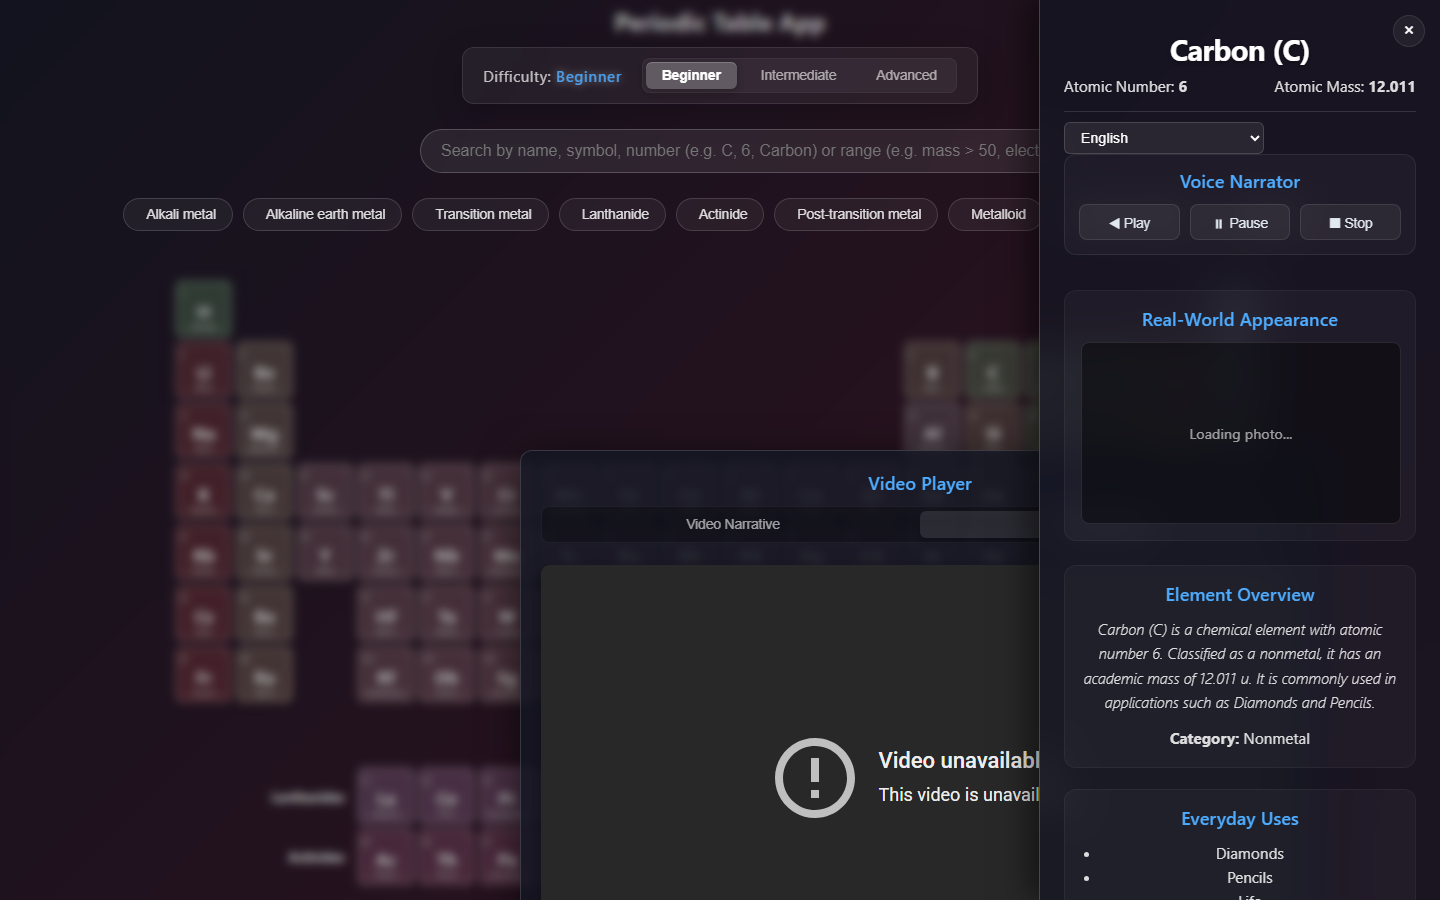
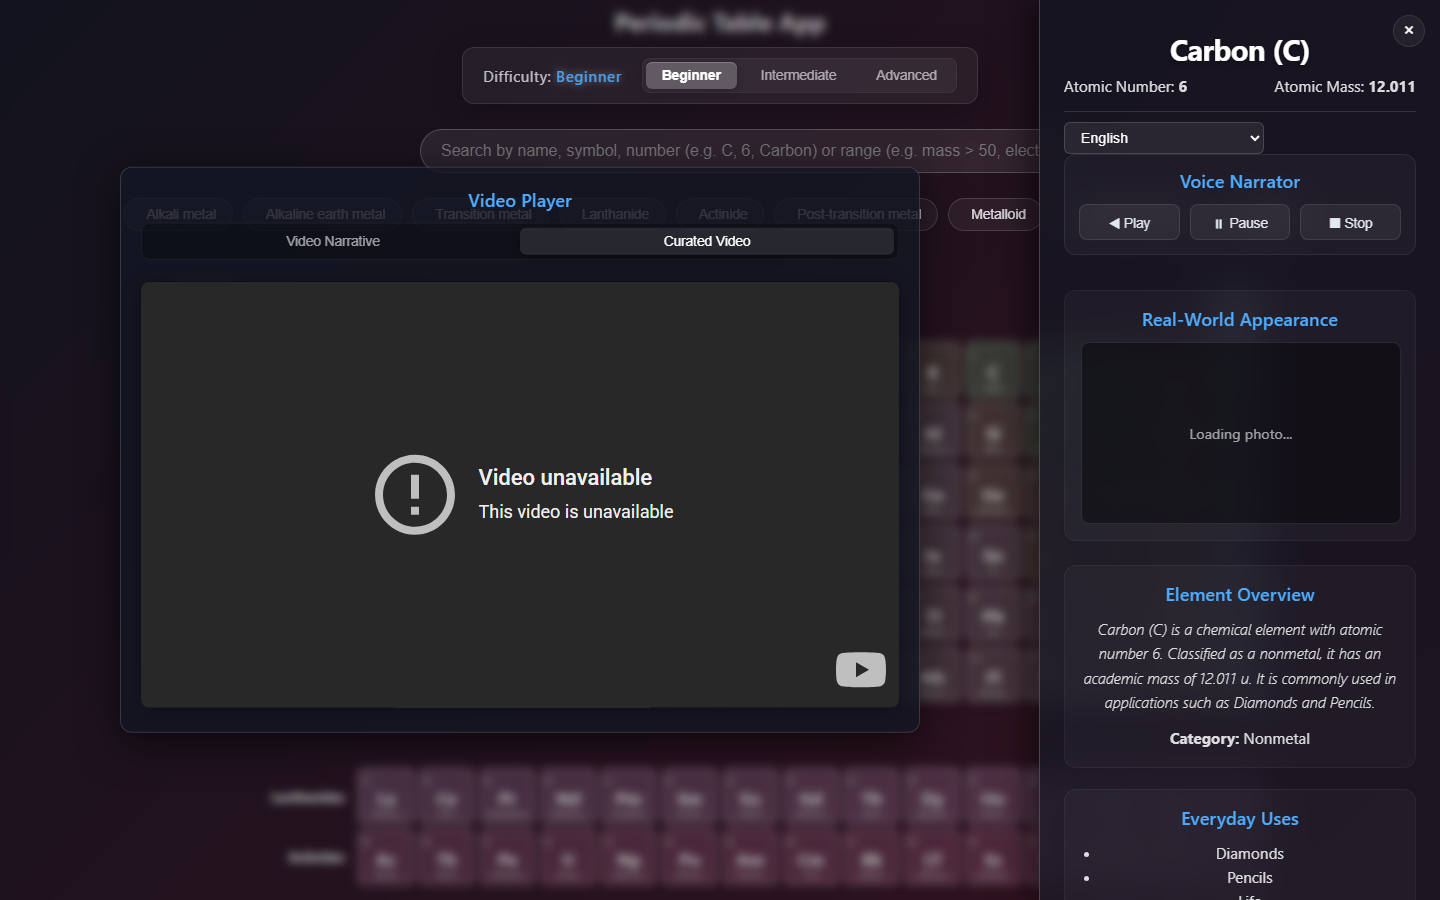
fix: resolve centering issue by defining custom animation that preserves translate(-50%, -50%)

diff --git a/src/styles/main.css b/src/styles/main.css
@@ -361,7 +361,7 @@
   max-width: calc(100vw - 460px);
   z-index: 950;
   box-sizing: border-box;
-  animation: fadeInScale 0.3s cubic-bezier(0.16, 1, 0.3, 1) both;
+  animation: fadeInScaleCentered 0.3s cubic-bezier(0.16, 1, 0.3, 1) both;
 }
 
 .floating-video-container .media-section {
@@ -463,6 +463,17 @@
   to {
     opacity: 1;
     transform: translateY(0) scale(1);
+  }
+}
+
+@keyframes fadeInScaleCentered {
+  from {
+    opacity: 0;
+    transform: translate(-50%, -50%) translateY(10px) scale(0.98);
+  }
+  to {
+    opacity: 1;
+    transform: translate(-50%, -50%) translateY(0) scale(1);
   }
 }
 